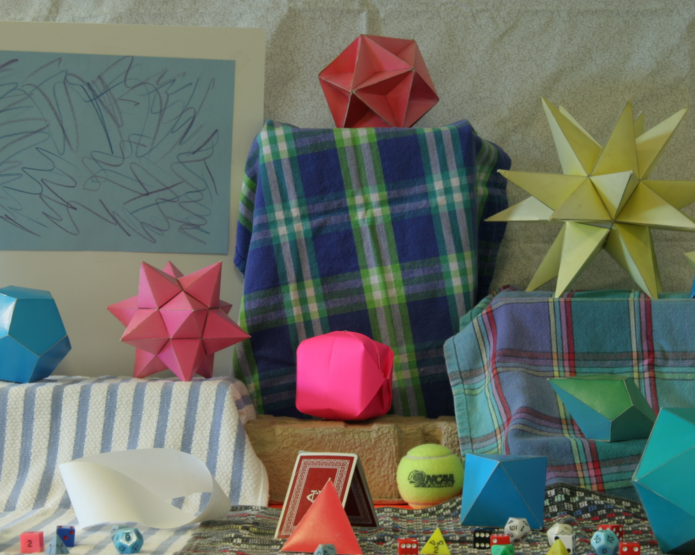
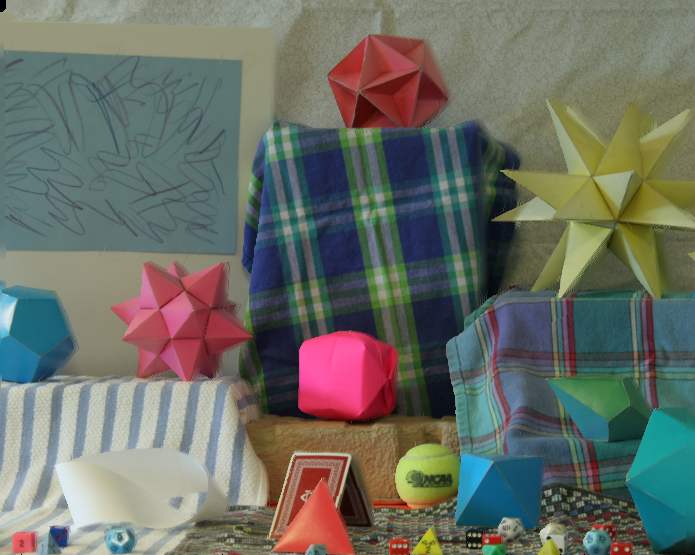
more impl

diff --git a/src/your_code_here.h b/src/your_code_here.h
@@ -480,9 +480,24 @@ ImageRGB createAnaglyph(const ImageRGB& image_left, const ImageRGB& image_right,
     auto rgb_orig = glm::vec3(0.2, 0.6, 0.4);
     auto rgb_should_be_same = hsvToRgb(rgbToHsv(rgb_orig)); // expect rgb == rgb_2 (up to numerical precision)
 
-    //
-    //    YOUR CODE GOES HERE
-    //
+    for (int i = 0; i < anaglyph.data.size(); i++) {
+        auto hsv_left = rgbToHsv(image_left.data[i]);
+        auto hsv_right = rgbToHsv(image_right.data[i]);
+
+        hsv_left.y *= saturation;
+        hsv_right.y *= saturation;
+
+        auto rgb_left = hsvToRgb(hsv_left);
+        auto rgb_right = hsvToRgb(hsv_right);
+
+        glm::vec3 final{
+            rgb_left.r,
+            rgb_right.g,
+            rgb_right.b
+        };
+
+        anaglyph.data[i] = final;
+    }
 
     // Returns a single analgyph image.
     return anaglyph;
